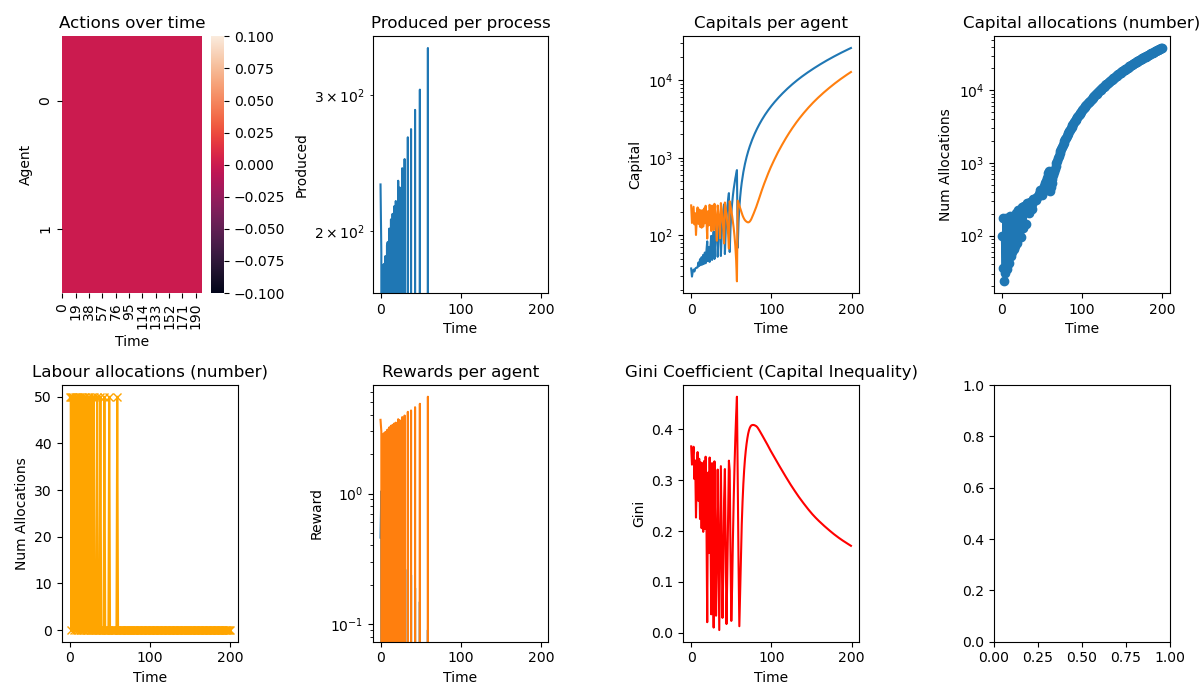
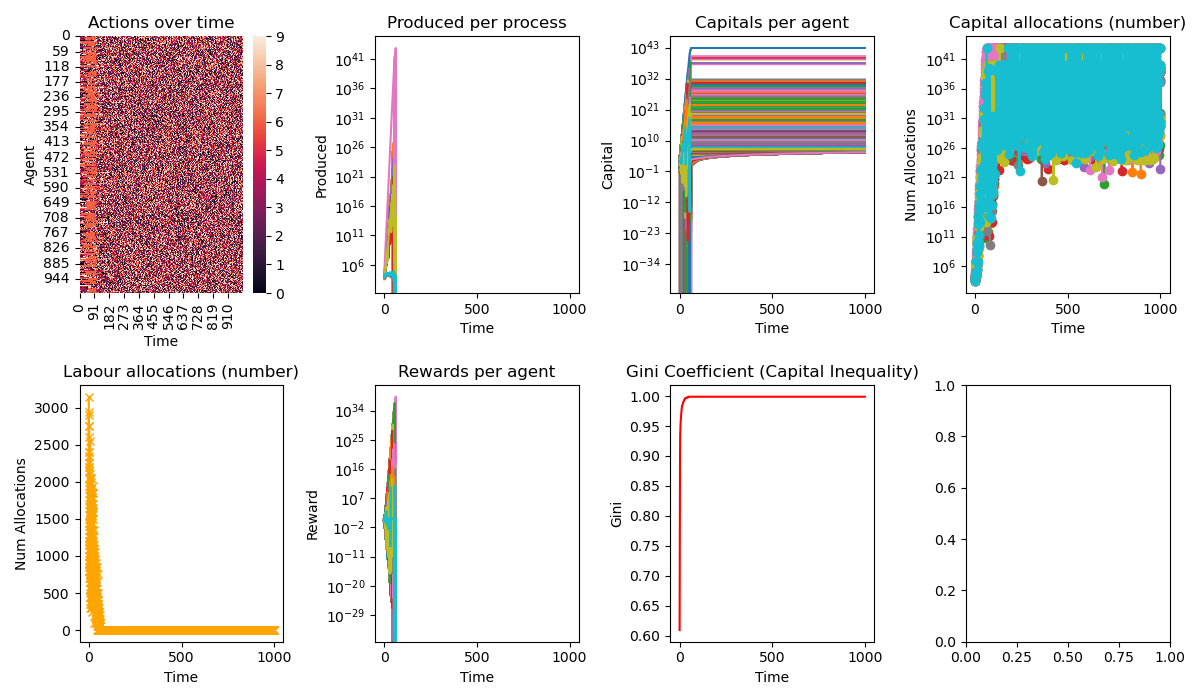
thank you chatgpt

diff --git a/experiment.py b/experiment.py
@@ -76,8 +76,8 @@ def run_capital_labour_processes(n_iter, epsilon, alpha, gamma, n_agents, n_proc
 
             #  print("capitals", capitals)
 
-            if worked_processes.size > 0:
-                capitals[capitalists] = np.where(capitalists_actions in worked_processes, 0, capitals[capitalists])
+            mask = np.isin(capitalists_actions, worked_processes)
+            capitals[capitalists] = np.where(mask, 0, capitals[capitalists])
 
             # print("capitals", capitals)
 
@@ -138,20 +138,20 @@ if __name__ == "__main__":
     from plotting import plot_dashboard
     # from analysis import run_analysis
 
-    n_agents = 2
-    n_processes = 1
+    n_agents = 1000
+    n_processes = 10
     
-    wants = np.array([10.0, 100.0])
-    capitals = np.array([100.0, 10.0])
-    timenergy = np.array([50, 50])
-    p_multipliers = np.array([4])
-    p_elasticities = np.array([0.2])
+    # wants = np.array([10.0, 100.0])
+    # capitals = np.array([100.0, 10.0])
+    # timenergy = np.array([50, 50])
+    # p_multipliers = np.array([4])
+    # p_elasticities = np.array([0.8])
     
-    # wants = np.random.randint(1, 100, size=n_agents).astype(float)
-    # capitals = np.random.randint(1, 100, size=n_agents).astype(float)
-    # timenergy = np.ones(n_agents)*50
-    # p_multipliers = np.random.random(size=n_processes)*10
-    # p_elasticities = np.random.random(size=n_processes)  # np.array([0.04765849, 0.04537723])
+    wants = np.random.randint(1, 100, size=n_agents).astype(float)
+    capitals = np.random.randint(1, 100, size=n_agents).astype(float)
+    timenergy = np.ones(n_agents)*50
+    p_multipliers = np.random.random(size=n_processes)*10
+    p_elasticities = np.random.random(size=n_processes)  # np.array([0.04765849, 0.04537723])
 
     
     n_iter = 1000
